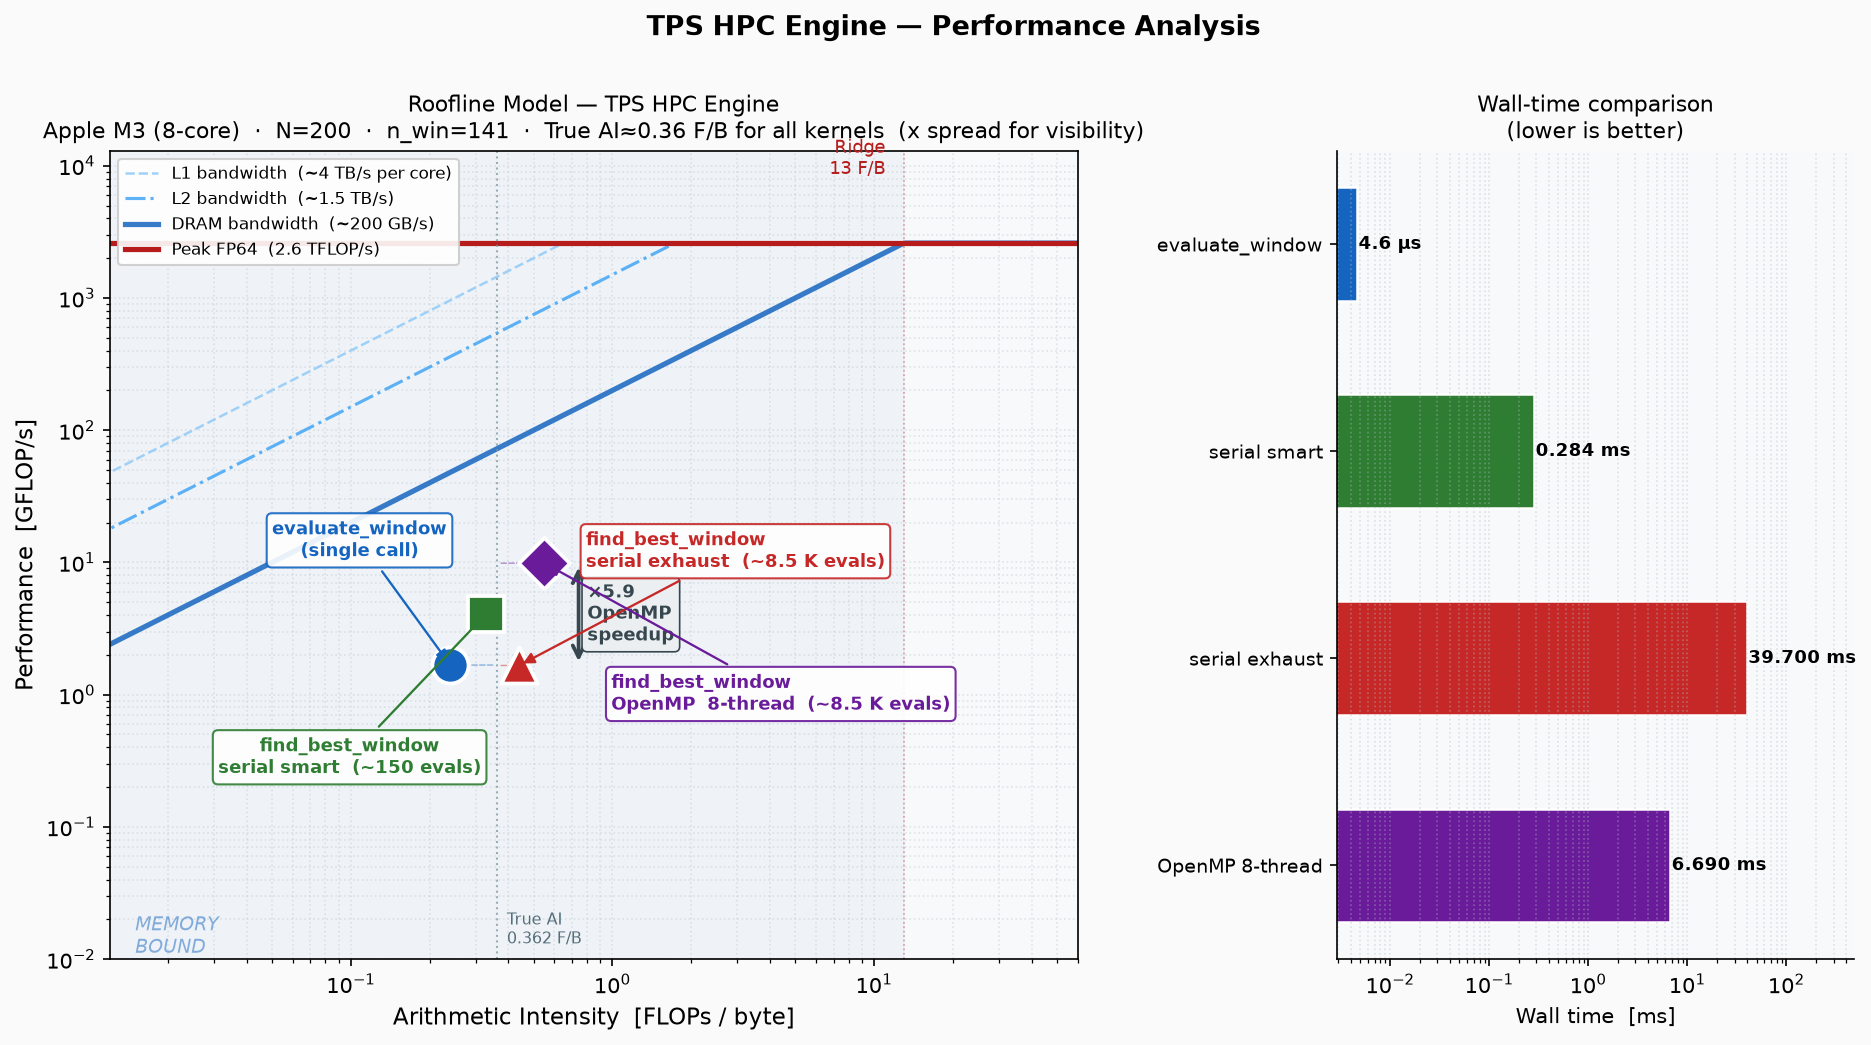
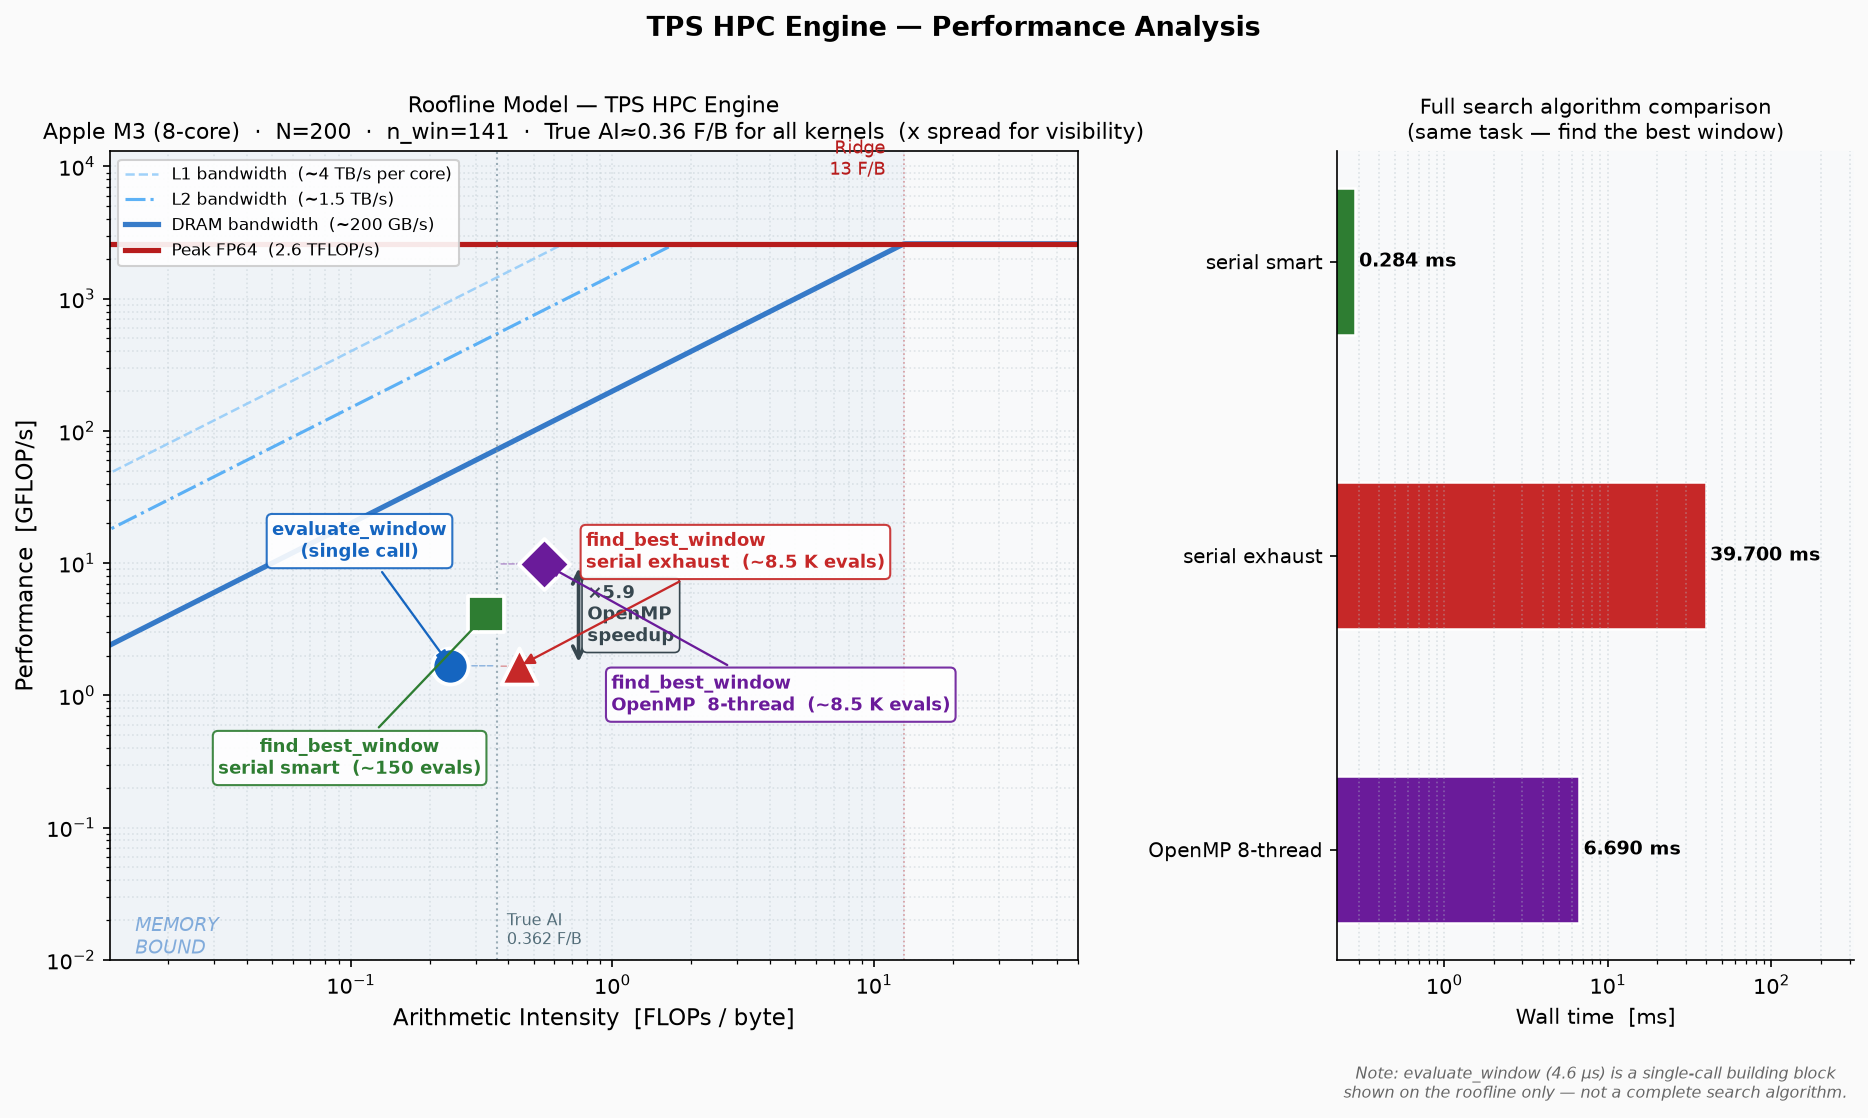
update chart

diff --git a/scripts/roofline.py b/scripts/roofline.py
@@ -228,51 +228,63 @@ ax.grid(True, which="both", ls=":", alpha=0.35, color="#B0BEC5")
 ax.legend(loc="upper left", fontsize=8, framealpha=0.9)
 
 # ══════════════════════════════════════════════════════════════════════════════
-# RIGHT: Wall-time bar chart
+# RIGHT: Wall-time bar chart — search algorithms only
+# evaluate_window is a building block (1 call), not a full search;
+# comparing it here would be apples-to-oranges, so it is excluded.
 # ══════════════════════════════════════════════════════════════════════════════
 axb.set_facecolor("#F8F9FA")
-labels   = [k["short"] for k in kernels]
-times_ms = [k["time_ms"] for k in kernels]
-colors   = [k["color"]  for k in kernels]
-markers  = [k["marker"] for k in kernels]
 
-y_pos = np.arange(len(kernels))
-bars  = axb.barh(y_pos, times_ms, color=colors, height=0.55,
+# Only the three complete search algorithms
+search_kernels = [k for k in kernels if k["short"] != "evaluate_window"]
+labels   = [k["short"] for k in search_kernels]
+times_ms = [k["time_ms"] for k in search_kernels]
+colors   = [k["color"]  for k in search_kernels]
+
+y_pos = np.arange(len(search_kernels))
+bars  = axb.barh(y_pos, times_ms, color=colors, height=0.5,
                  edgecolor="white", linewidth=1.2)
 
-# Value labels
+# Value labels (right of bar)
 for bar, t in zip(bars, times_ms):
     txt = f"{t:.3f} ms" if t >= 0.1 else f"{t*1000:.1f} µs"
-    axb.text(bar.get_width() * 1.04, bar.get_y() + bar.get_height() / 2,
-             txt, va="center", ha="left", fontsize=8.5, fontweight="bold")
+    axb.text(bar.get_width() * 1.06, bar.get_y() + bar.get_height() / 2,
+             txt, va="center", ha="left", fontsize=9, fontweight="bold")
 
-# Speedup annotations vs serial exhaust baseline
-t_base = kernels[2]["time_ms"]   # serial exhaustive
-for i, k in enumerate(kernels):
-    if k["short"] == "serial exhaust":
-        axb.text(-times_ms[-1] * 0.04, i, "baseline",
-                 va="center", ha="right", fontsize=7.5, color="#555")
+# Speedup vs serial exhaustive (baseline = middle bar)
+t_base = next(k["time_ms"] for k in search_kernels if k["short"] == "serial exhaust")
+for i, k in enumerate(search_kernels):
+    ratio = t_base / k["time_ms"]
+    if abs(ratio - 1.0) < 0.05:
+        tag = "baseline"
+        tag_color = "#555555"
+    elif ratio > 1:
+        tag = f"×{ratio:.0f} faster"
+        tag_color = k["color"]
     else:
-        ratio = t_base / k["time_ms"]
-        prefix = "×" if ratio >= 1 else "×"
-        if ratio >= 1:
-            label = f"×{ratio:.0f} faster"
-        else:
-            label = f"×{1/ratio:.1f} slower"
-        axb.text(-times_ms[-1] * 0.04, i, label,
-                 va="center", ha="right", fontsize=7.5,
-                 color=k["color"], fontweight="bold")
+        tag = f"×{1/ratio:.1f} slower"
+        tag_color = "#888888"
+    axb.text(-max(times_ms) * 0.05, i, tag,
+             va="center", ha="right", fontsize=8, fontweight="bold",
+             color=tag_color)
 
 axb.set_yticks(y_pos)
-axb.set_yticklabels(labels, fontsize=9)
+axb.set_yticklabels(labels, fontsize=9.5)
 axb.set_xlabel("Wall time  [ms]", fontsize=10)
-axb.set_title("Wall-time comparison\n(lower is better)", fontsize=10.5)
+axb.set_title("Full search algorithm comparison\n(same task — find the best window)",
+              fontsize=10)
 axb.set_xscale("log")
-axb.set_xlim(right=times_ms[-2] * 12)   # leave room for labels
+axb.set_xlim(right=max(times_ms) * 8)
 axb.invert_yaxis()
 axb.grid(True, which="both", axis="x", ls=":", alpha=0.4, color="#B0BEC5")
 axb.spines["top"].set_visible(False)
 axb.spines["right"].set_visible(False)
+
+# Footnote explaining evaluate_window position on roofline
+axb.text(0.5, -0.13,
+         "Note: evaluate_window (4.6 µs) is a single-call building block\n"
+         "shown on the roofline only — not a complete search algorithm.",
+         transform=axb.transAxes, ha="center", va="top",
+         fontsize=7.5, color="#666", style="italic")
 
 
 plt.suptitle("TPS HPC Engine — Performance Analysis", fontsize=13,

diff --git a/README.md b/README.md
@@ -91,11 +91,15 @@ Both top bottlenecks contain an **O(n log n) sort** (median ranking / Spearman r
 
 ### Search algorithm comparison
 
+세 알고리즘 모두 **동일한 작업** (전체 데이터에서 최적 창 찾기)을 수행합니다.
+
 | Algorithm | Wall time | vs serial exhaustive |
 |---|---|---|
 | Serial smart search (~150 evals) | **0.28 ms** | **×140 faster** |
 | Serial exhaustive (~8 500 evals) | 39.7 ms | baseline |
 | OpenMP 8-thread exhaustive | **6.7 ms** | **×5.9 speedup** |
+
+> `evaluate_window` (4.6 µs) 는 창 **1개**를 평가하는 building block이며 위 알고리즘들의 내부 호출 단위입니다. 전체 탐색 알고리즘과 직접 비교하는 것은 사과 vs 오렌지 비교이므로, roofline 패널의 참조점으로만 표시합니다.
 
 ### Python binding round-trip overhead (pybind11, N = 200)
 
@@ -123,7 +127,8 @@ Both top bottlenecks contain an **O(n log n) sort** (median ranking / Spearman r
 ![Roofline model](docs/roofline/roofline.png)
 
 > Generated by `python3 scripts/roofline.py` from measured `bench_profile` data.  
-> Left: classic roofline (log-log). Right: wall-time comparison (lower is better).  
+> **Left:** Classic roofline (log-log) — all 4 points plotted including `evaluate_window` as a building-block reference.  
+> **Right:** Wall-time comparison of the **3 complete search algorithms only** (same task, fair comparison).  
 > x-axis positions are slightly spread for visual clarity; true AI ≈ 0.36 F/B for all kernels.
 
 ### How to read the chart